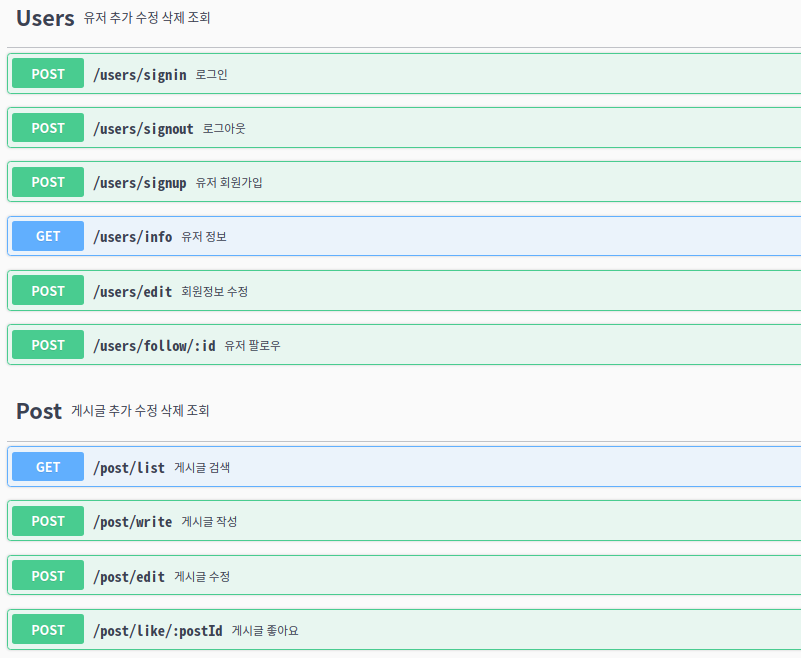
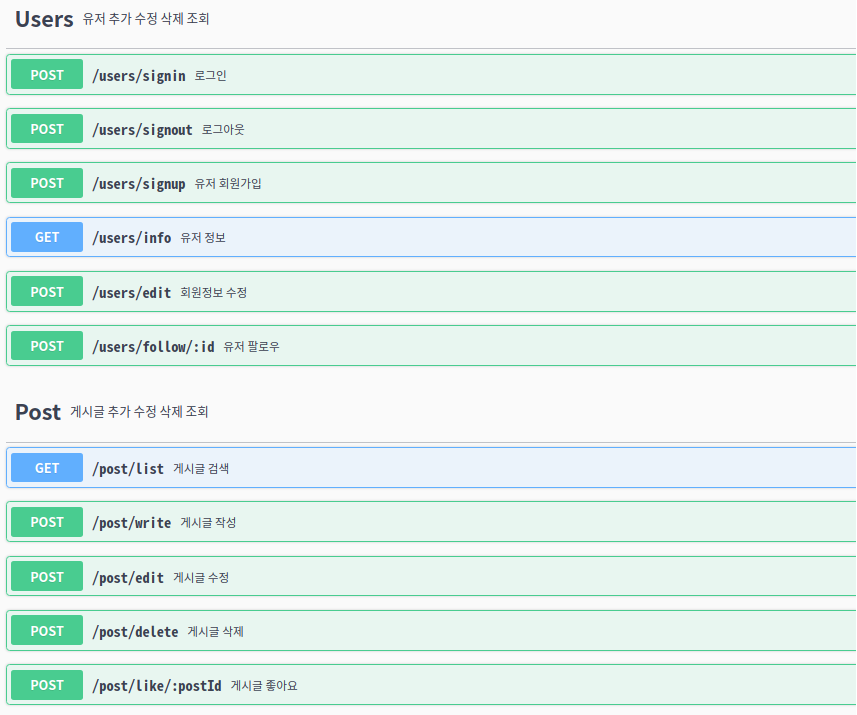
update: edit swagger, Success message

Changed region(s): [[0.0, 0.0, 0.9988, 1.0]]

diff --git a/server/src/routes/post.route.js b/server/src/routes/post.route.js
@@ -40,7 +40,7 @@ router.post("/like/:postId", isLoggedIn, likePost);
  *                              example: true
  *                          message:
  *                              type: string,
- *                              example: "user: Fantastic4 is Signup Success"
+ *                              example: "Success"
  *                          postList:
  *                              type: array,
  *                              example: []
@@ -88,7 +88,7 @@ router.post("/like/:postId", isLoggedIn, likePost);
  *      ]
  *      responses:
  *          "200":
- *             description: 게시글 작성완료
+ *             description: 게시글 작성 완료
  *             content:
  *              application/json:
  *                  schema:
@@ -99,7 +99,7 @@ router.post("/like/:postId", isLoggedIn, likePost);
  *                              example: true
  *                          message:
  *                              type: string,
- *                              example: "Post Success"
+ *                              example: "Write success"
  *                          tokenBalance:
  *                              type: string,
  *                              example: "1"
@@ -112,7 +112,7 @@ router.post("/like/:postId", isLoggedIn, likePost);
  *  /post/edit:
  *    post:
  *      summary: "게시글 수정"
- *      description: "작성한 게시글의 제목, 내용, 이미지를 수정가능"
+ *      description: "작성한 게시글의 제목, 내용, 이미지를 수정"
  *      tags: [Post]
  *      parameters:  [
  *           {
@@ -147,7 +147,7 @@ router.post("/like/:postId", isLoggedIn, likePost);
  *      ]
  *      responses:
  *          "200":
- *             description: 게시글 수정완료
+ *             description: 게시글 수정 완료
  *             content:
  *              application/json:
  *                  schema:
@@ -158,7 +158,44 @@ router.post("/like/:postId", isLoggedIn, likePost);
  *                              example: true
  *                          message:
  *                              type: string,
- *                              example: "delete success"
+ *                              example: "Edit success"
+ *
+ */
+
+/**
+ * @swagger
+ * paths:
+ *  /post/delete:
+ *    post:
+ *      summary: "게시글 삭제"
+ *      description: "작성한 게시글을 삭제"
+ *      tags: [Post]
+ *      parameters:  [
+ *           {
+ *               "name": "postId",
+ *               "in": "body",
+ *               "description": "input postId",
+ *               "required": true,
+ *               "schema": {
+ *                   "type": "string",
+ *                   "example": "1"
+ *               }
+ *           }
+ *      ]
+ *      responses:
+ *          "200":
+ *             description: 게시글 삭제 완료
+ *             content:
+ *              application/json:
+ *                  schema:
+ *                      type: object
+ *                      properties:
+ *                          status:
+ *                              type: boolean,
+ *                              example: true
+ *                          message:
+ *                              type: string,
+ *                              example: "Delete success"
  *
  */
 

diff --git a/server/src/routes/comment.route.js b/server/src/routes/comment.route.js
@@ -81,7 +81,7 @@ router.post("/like/:commentId", isLoggedIn, likeComment);
  *       ]
  *      responses:
  *          "200":
- *             description: 댓글조회 완료
+ *             description: 댓글작성 완료
  *             content:
  *              application/json:
  *                  schema:
@@ -92,7 +92,53 @@ router.post("/like/:commentId", isLoggedIn, likeComment);
  *                              example: true
  *                          message:
  *                              type: string,
- *                              example: "Success"
+ *                              example: "Write uccess"
+ */
+
+/**
+ * @swagger
+ * paths:
+ *  /comment/edit:
+ *    post:
+ *      summary: "댓글 수정"
+ *      description: "해당 게시글의 댓글을 수정"
+ *      tags: [Comment]
+ *      parameters:  [
+ *           {
+ *               "name": " commentId",
+ *               "in": "body",
+ *               "description": "input commentId",
+ *               "required": true,
+ *               "schema": {
+ *                   "type": "string",
+ *                   "example": "1"
+ *               }
+ *           },
+ *           {
+ *               "name": "content",
+ *               "in": "body",
+ *               "description": "input content",
+ *               "required": true,
+ *               "schema": {
+ *                   "type": "string",
+ *                   "example": "content"
+ *               }
+ *           }
+ *       ]
+ *      responses:
+ *          "200":
+ *             description: 댓글수정 완료
+ *             content:
+ *              application/json:
+ *                  schema:
+ *                      type: object
+ *                      properties:
+ *                          status:
+ *                              type: boolean,
+ *                              example: true
+ *                          message:
+ *                              type: string,
+ *                              example: "Edit success"
  */
 
 /**
@@ -128,7 +174,7 @@ router.post("/like/:commentId", isLoggedIn, likeComment);
  *                              example: true
  *                          message:
  *                              type: string,
- *                              example: "Success"
+ *                              example: "Delete success"
  */
 
 /**

diff --git a/server/src/controllers/post.controller.js b/server/src/controllers/post.controller.js
@@ -15,7 +15,7 @@ const listPost = async (req, res, next) => {
     const postList = await getPostList();
     return res.status(200).json({
       status: true,
-      message: "전제글목록 검색",
+      message: "Success",
       postList, //최신게시글목록
     });
   } catch (err) {
@@ -36,7 +36,7 @@ const writePost = async (req, res, next) => {
       const tokenBalance = await getTokenBalance(address);
       return res.status(200).json({
         status: true,
-        message: "Post success",
+        message: "Write success",
         tokenBalance,
       });
     } else {
@@ -61,7 +61,7 @@ const editPost = async (req, res, next) => {
 
     return res.status(200).json({
       status: true,
-      message: "edit success",
+      message: "Edit success",
     });
   } catch (err) {
     return res.status(401).json({
@@ -80,7 +80,7 @@ const deletedPost = async (req, res, next) => {
 
     return res.status(200).json({
       status: true,
-      message: "delete success",
+      message: "Delete success",
     });
   } catch (err) {
     return res.status(401).json({

diff --git a/server/src/controllers/comment.controller.js b/server/src/controllers/comment.controller.js
@@ -38,7 +38,7 @@ const writeComment = async (req, res, next) => {
 
     return res.status(200).json({
       status: true,
-      message: "Success",
+      message: "Write success",
     });
   } catch (err) {
     console.error(err);
@@ -56,7 +56,7 @@ const editComment = async (req, res, next) => {
 
     return res.status(200).json({
       status: true,
-      message: "edit success",
+      message: "Edit success",
     });
   } catch (err) {
     console.error(err);
@@ -76,7 +76,7 @@ const deletedComment = async (req, res, next) => {
 
     return res.status(200).json({
       status: true,
-      message: "delete success",
+      message: "Delete success",
     });
   } catch (err) {
     return res.status(401).json({

diff --git a/.github/wiki.md b/.github/wiki.md
@@ -26,7 +26,7 @@
 <br />
 <br /> 
 
- ---
+---
 > ### 📦&nbsp;Version 
 ---
 <br />
